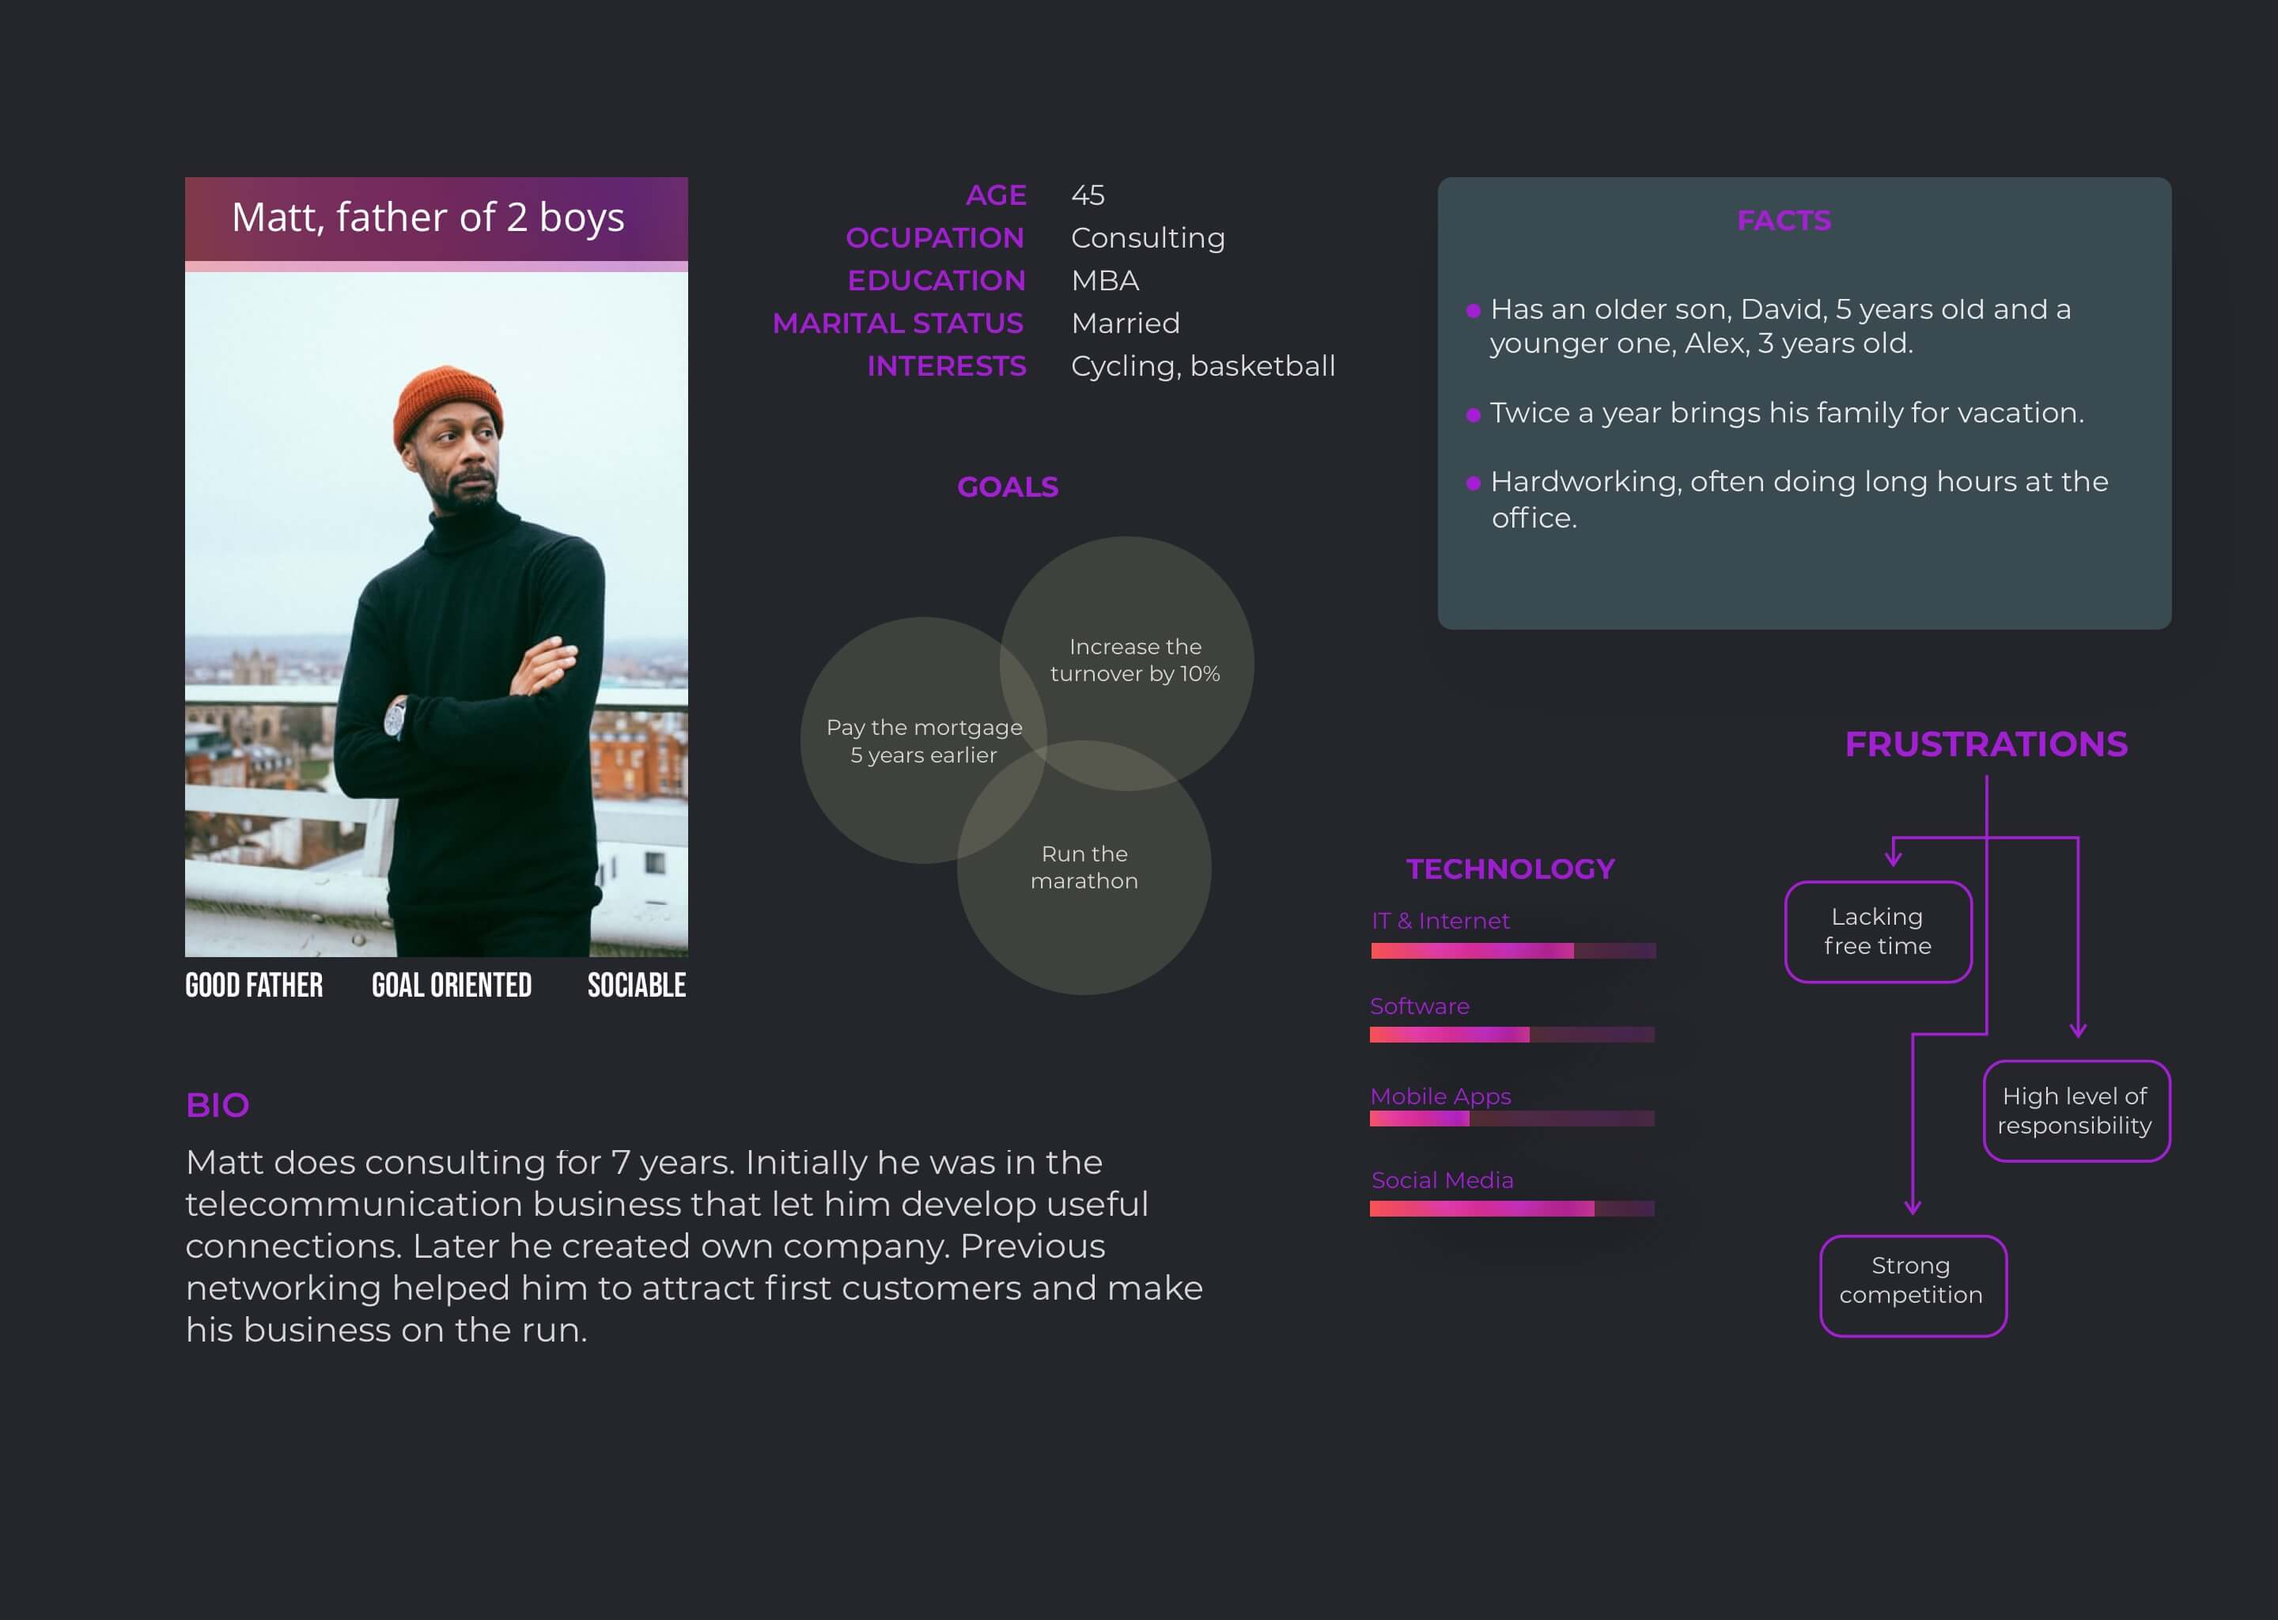
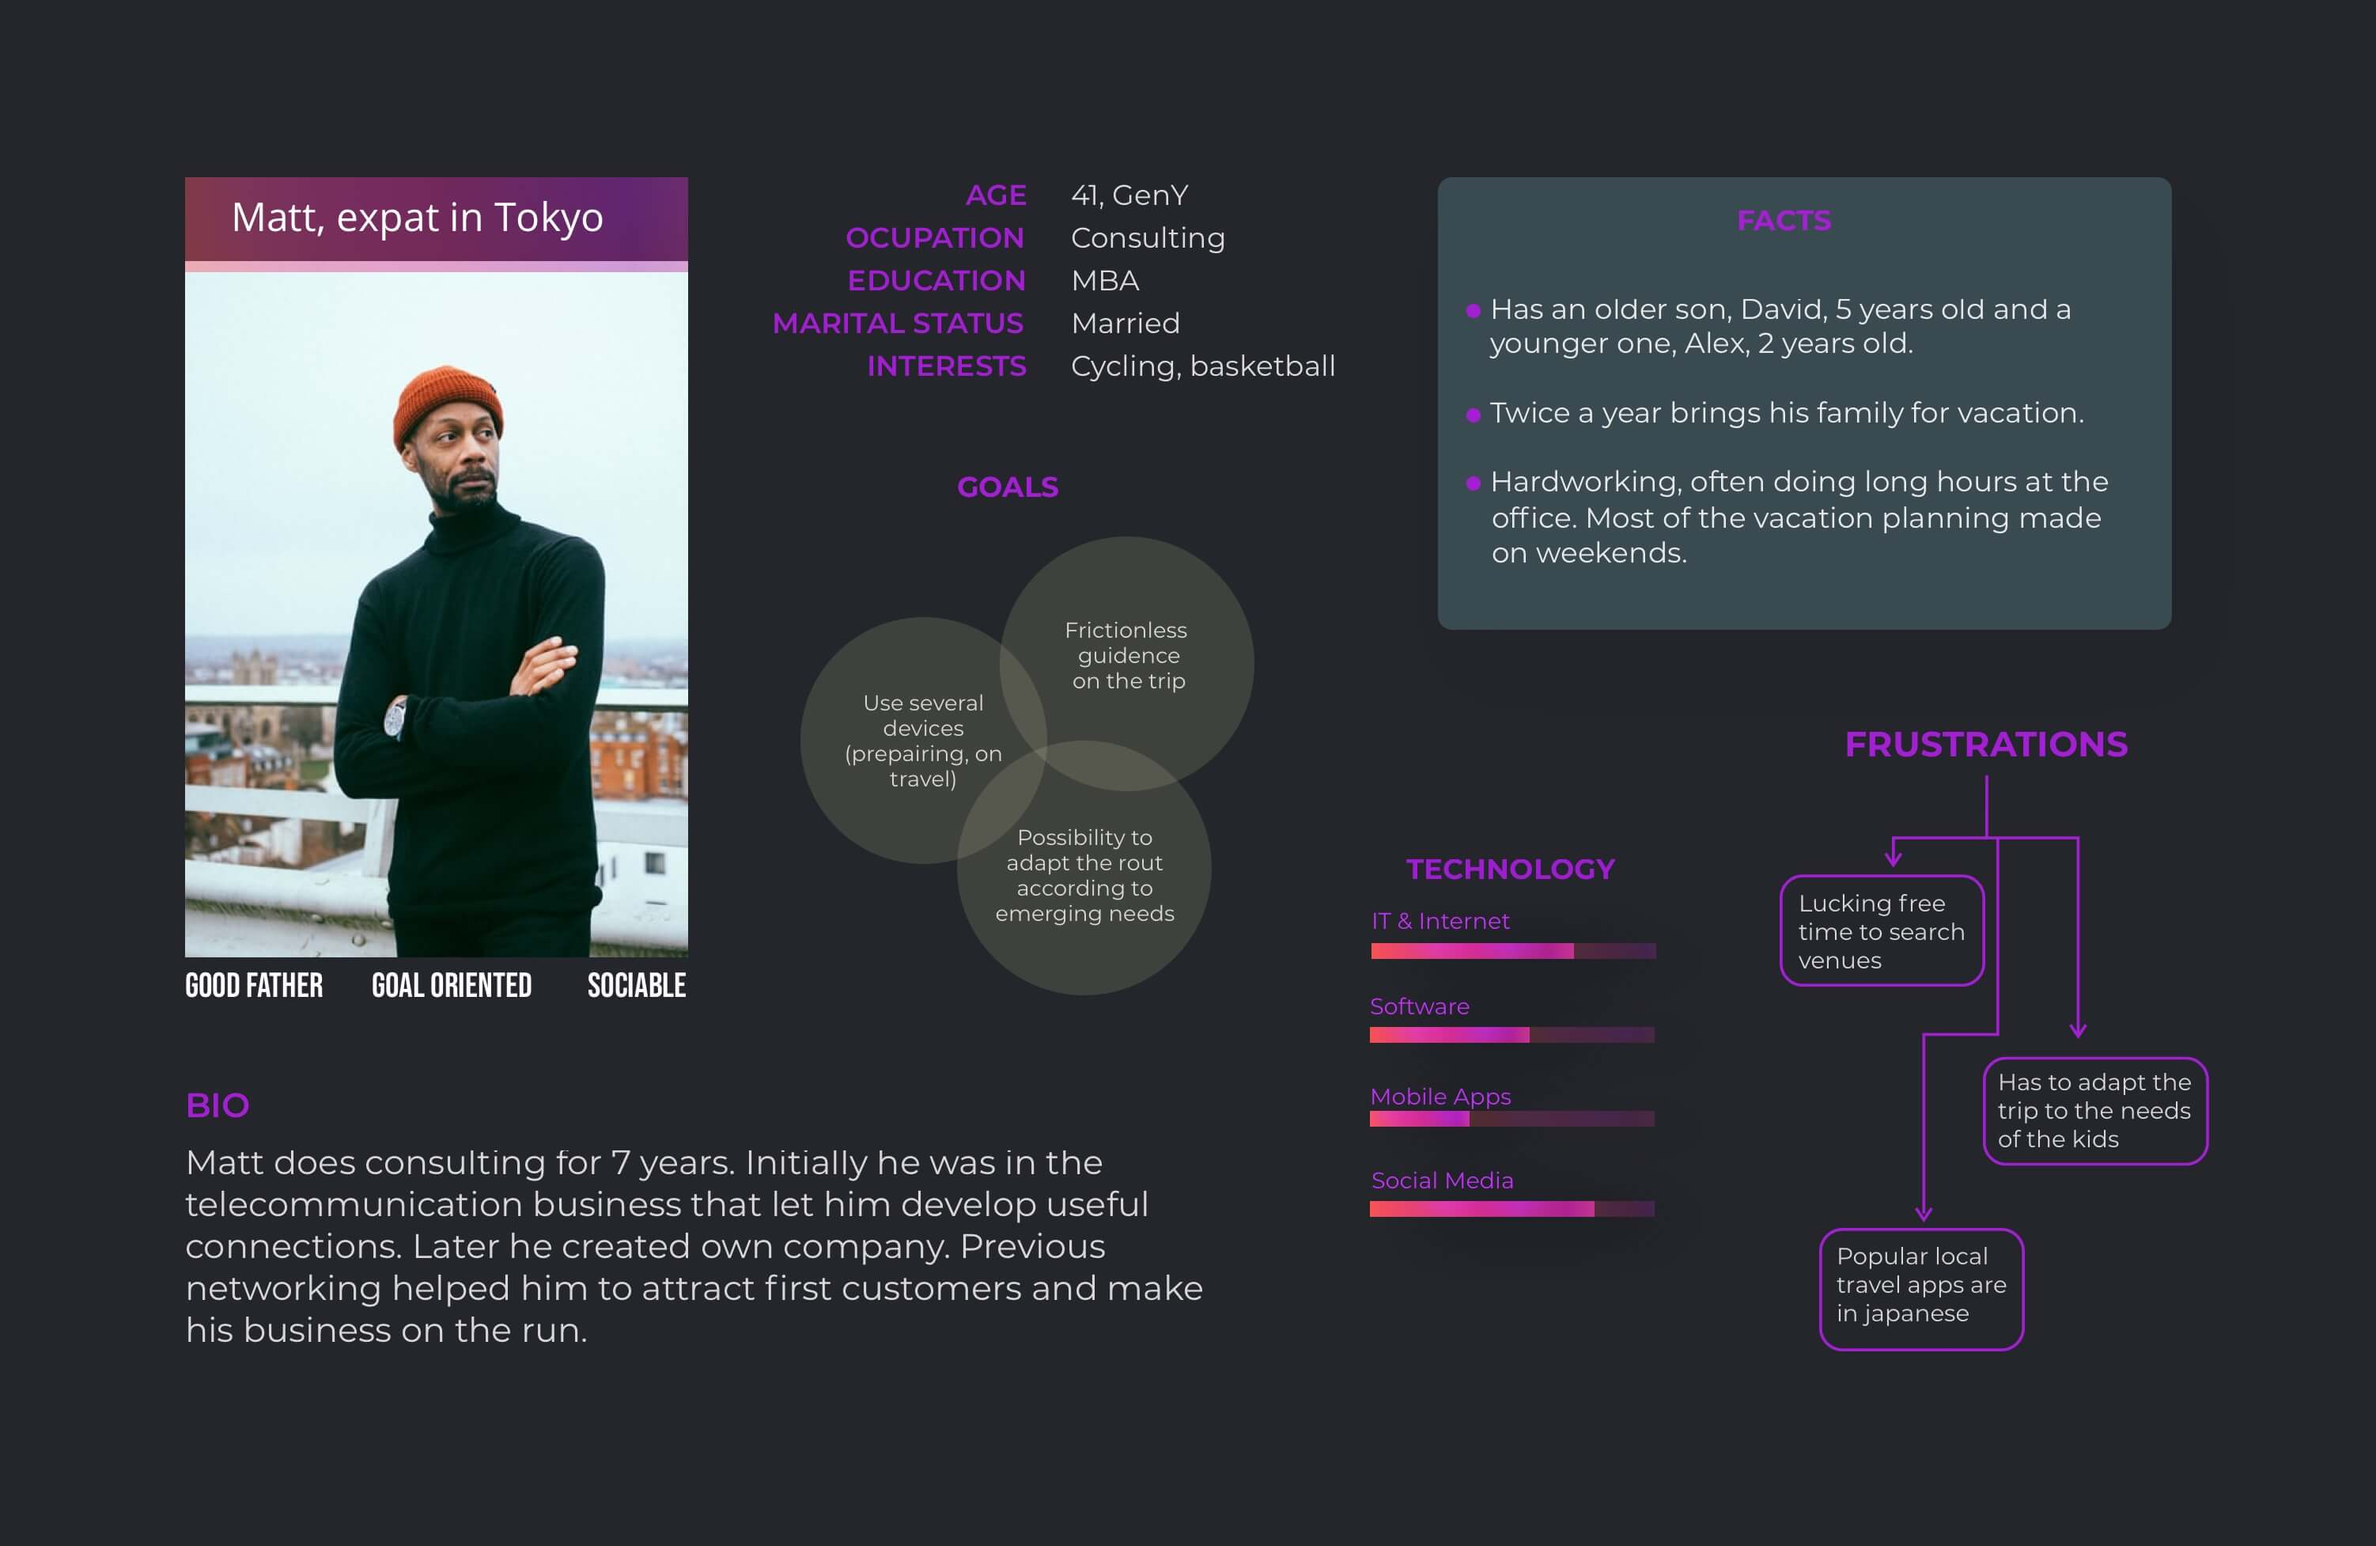
change persona wtravel

Changed region(s): [[0.0625, 0.0937, 0.9688, 0.8741], [0.5625, 0.4371, 0.9688, 0.8741], [0.4062, 0.281, 0.4688, 0.3434]]

diff --git a/index.html b/index.html
@@ -143,7 +143,7 @@
 
 					<h3> WTravel </h3>
 					<p> Helping parents by providing guidance inside out outside of the city. </p>
-					<h5>#responsive #user_research #userpersona #moodboard #styleguide #customicons #travelapp #geolocation</h5>
+					<h5>#responsive #user_research #userpersona #AR #moodboard #styleguide #customicons #travelapp #geolocation</h5>
 					<div class="button-position">
 						<a href="wtravel.html" class="button"> View project </a>
 					</div>

diff --git a/wtravel.html b/wtravel.html
@@ -175,7 +175,7 @@
         </div>
 
         <div class="narrow-column">
-          <h2>User Persona</h2>
+          <h2>Provisional Persona</h2>
           </div>
           <div class="full-width">
             <picture>
